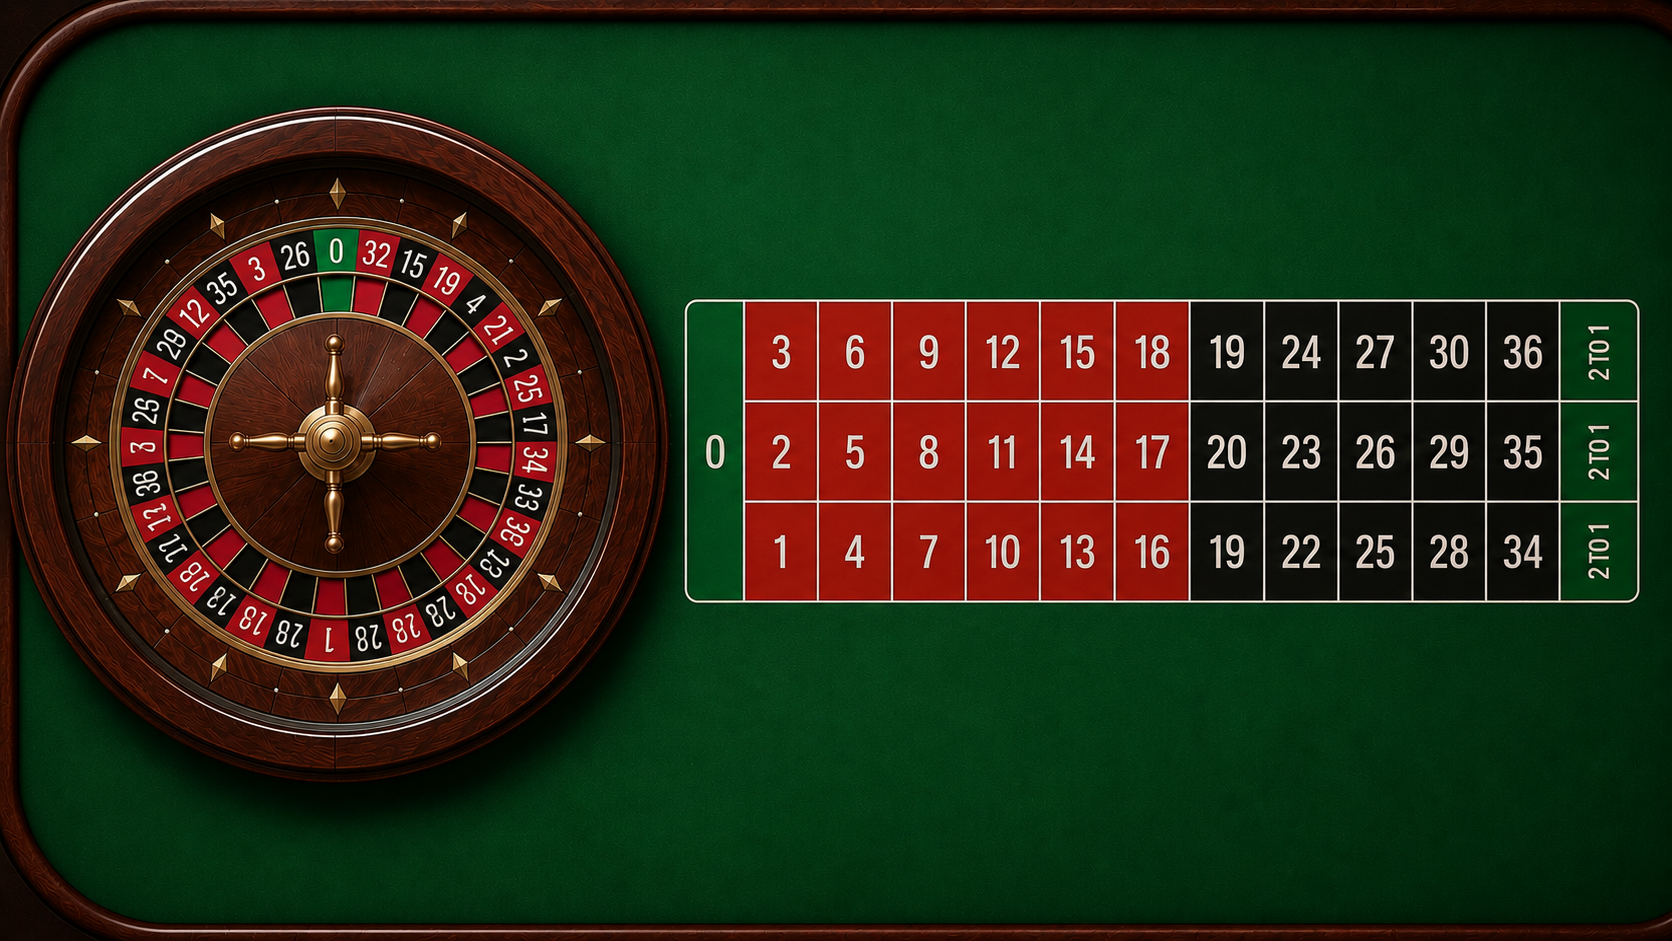
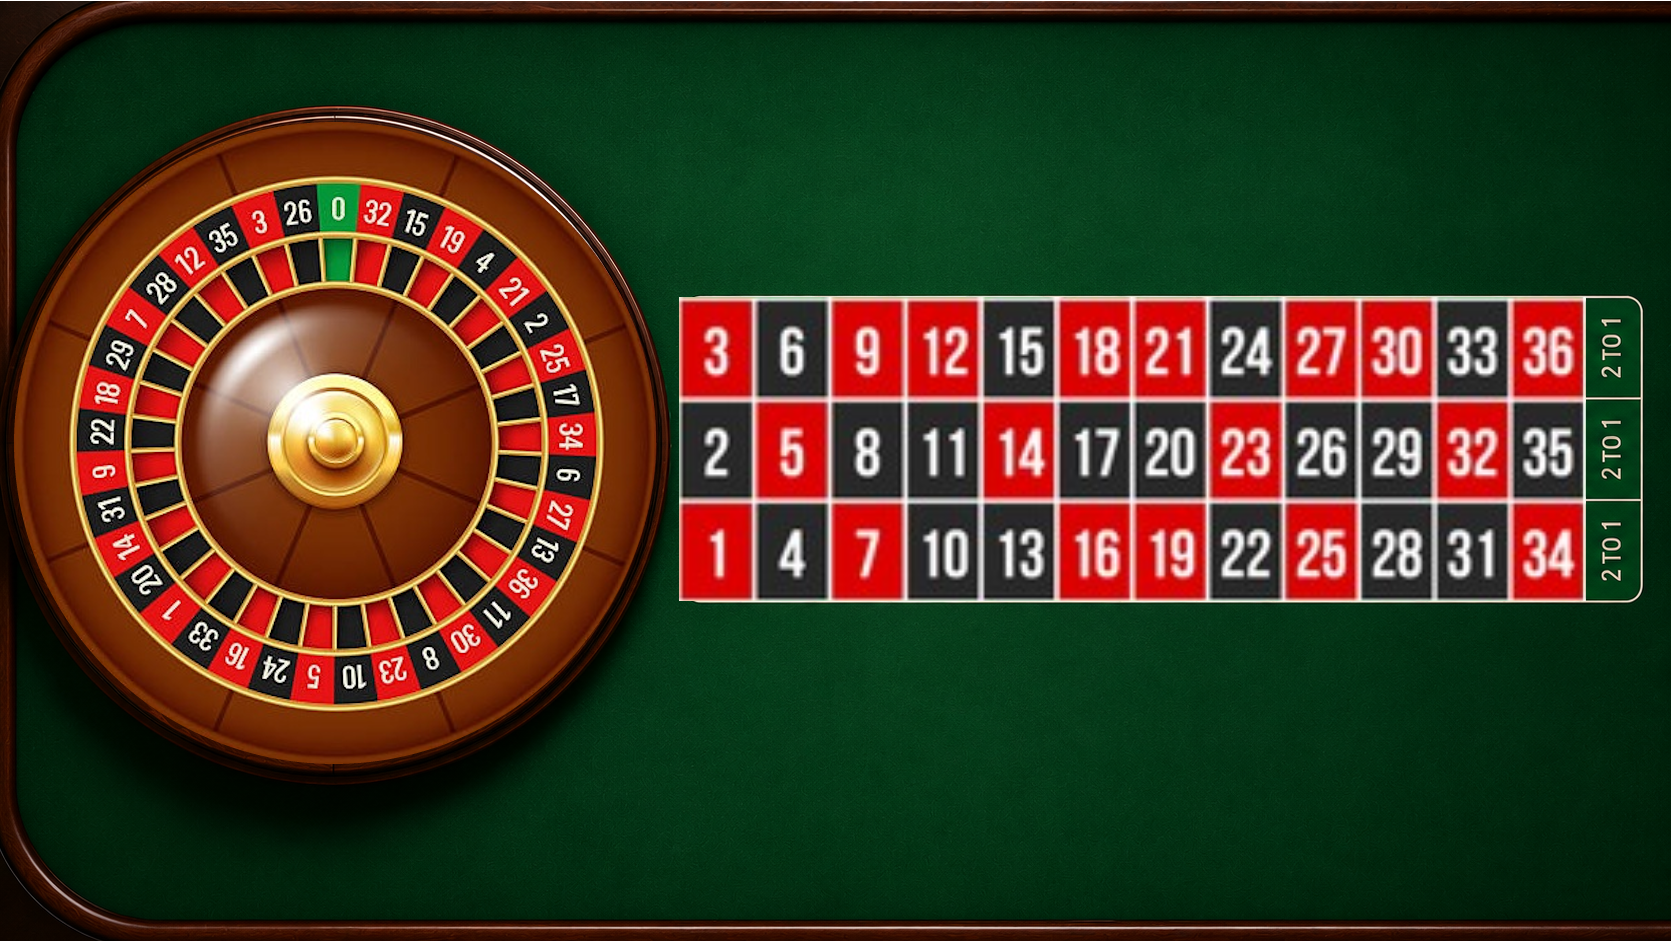
Version 7(20.05.2026 - abends)

diff --git a/CasinoGUI.java b/CasinoGUI.java
@@ -41,7 +41,7 @@ public class CasinoGUI extends JPanel implements Runnable, MouseListener
     double ballSpeed = 0;
     int rouletteCenterX = 260;
     int rouletteCenterY = 335;
-    int ballRadius = 115;
+    int ballRadius = 135;
     boolean spinning = false;
     double targetAngle = 0;
 
@@ -162,13 +162,17 @@ public class CasinoGUI extends JPanel implements Runnable, MouseListener
                         ImageIcon winGif = new ImageIcon(getClass().getResource("pics/jackpot.gif"));
                         JLabel winAnimation = new JLabel(winGif);
 
-            
-
                     }
                     int zahl = roulette.ergebnis;
-                    targetAngle = zahl * (2 * Math.PI / 37);
 
-                    ballSpeed = 0.25;
+                    double anglePerField = 2 * Math.PI / 37;
+                    double offset = -Math.PI / 2;
+
+                    int index = roulette.getWinkelIndex();
+
+                    targetAngle = -ballAngle + (Math.PI * 8) + index * anglePerField + offset;
+
+                    ballSpeed = 0.35 + Math.random()*0.1;
                     spinning = true;
                     ergebnisLabel.setText("Zahl: " + zahl + " | Gewinn: " + gewinn + "$");
                     konto.setText("Kontostand: " + spieler.getKontostand() + "$");
@@ -306,6 +310,31 @@ public class CasinoGUI extends JPanel implements Runnable, MouseListener
         return image;
     }
 
+    public void run1()
+    {
+        while(frame.isVisible())
+        {
+            if(spinning)
+            {
+                ballAngle += ballSpeed;
+
+                if(ballAngle >= targetAngle)
+                {
+                    ballAngle = targetAngle;
+                    ballSpeed = 0;
+                    spinning = false;
+                }
+            }
+            repaint();
+
+            try
+            {
+                Thread.sleep(10);
+            }
+            catch(Exception e){}
+        }
+    }
+
     public void run()
     {
         while(frame.isVisible())
@@ -314,14 +343,20 @@ public class CasinoGUI extends JPanel implements Runnable, MouseListener
             {
                 ballAngle += ballSpeed;
 
-                ballSpeed *= 0.99;
+                // Ball langsamer machen
+                ballSpeed *= 0.985;
 
-                if(ballSpeed < 0.01)
+                // Abstand zum Ziel berechnen
+                //double diff = Math.abs(targetAngle - ballAngle);
+
+                if(ballAngle >= targetAngle)
                 {
                     ballAngle = targetAngle;
+                    ballSpeed = 0;
                     spinning = false;
                 }
             }
+
             repaint();
 
             try

diff --git a/Roulette.java b/Roulette.java
@@ -20,6 +20,11 @@ public class Roulette extends Spiel
     public int einsatz;
     public boolean hauptgewinn;
     //public int kontostand;
+    private int[] rouletteOrder = {
+            0,32,15,19,4,21,2,25,17,34,6,27,13,36,
+            11,30,8,23,10,5,24,16,33,1,20,14,31,
+            9,22,18,29,7,28,12,35,3,26
+        };
     Spieler spieler;
 
     public Roulette(Spieler nSpieler)
@@ -232,7 +237,7 @@ public class Roulette extends Spiel
         einsatz = 0;
         return gewinn;
     }
-    
+
     public boolean getHauptgewinn()
     {
         if(hauptgewinn == true)
@@ -243,5 +248,23 @@ public class Roulette extends Spiel
         {
             return false;
         }
+    }
+
+    public int getWinkelIndex()
+    {
+        int index = 0;
+
+        for(int i=0;i<rouletteOrder.length;i++){
+            if(rouletteOrder[i] == ergebnis){
+                index = i;
+                break;
+            }
+        }
+        return index;
+    }
+
+    public int[] getRouletteReihenfolge()
+    {
+        return rouletteOrder;
     }
 }